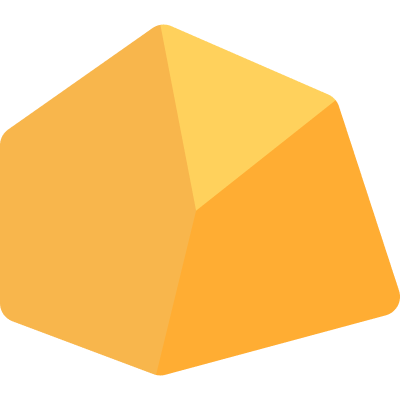
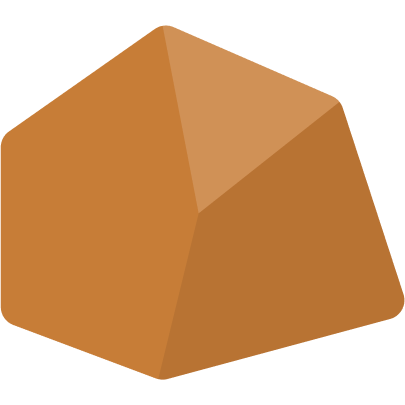
Adding auction buttong, changing images, and forcing info text in city view of buildings

diff --git a/imports/ui/components/city/city.js b/imports/ui/components/city/city.js
@@ -423,10 +423,12 @@ Template.cityMap.helpers({
     // console.log(Meteor.userId());
     bb =  Buildings.find({$and: [{"gameCode": FlowRouter.getParam("gameCode")}, {"ownerId": Meteor.userId()}, {"location": {$exists: false}} ]})
     // console.log(Buildings.find().fetch());
+    mapTiles = Template.instance().mapTiles
     bb = bb.fetch();
 
     for (b in bb) {
-      bb[b]["image"] = this.mapTiles[bb[b]["name"]];
+      // console.log(bb[b]);
+      bb[b]["image"] = mapTiles[bb[b]["name"]];
     }
     return bb;
   },
@@ -504,8 +506,9 @@ Template.cityMap.helpers({
             pcText += pc + ": " + pcs[pc] + " ";
           }
         }
-        boxContent["text"].push("Uses: " + JSON.stringify(pcText));
-        boxContent["text"].push("Produces: " + JSON.stringify(mapSelect["building"]["prodVal"]));
+        // boxContent["text"].push("Uses: " + JSON.stringify(pcText));
+        // boxContent["text"].push("Produces: " + JSON.stringify(mapSelect["building"]["prodVal"]));
+        boxContent["text"].push(JSON.stringify(mapSelect["building"]["infoText"]));
         if ("neighboringResource" in mapSelect["building"] && "neighborBonus" in mapSelect["building"]) {
           boxContent["text"].push(" Resource nearby, bonus production possible! ");
         }

diff --git a/imports/ui/components/admin/admin.js b/imports/ui/components/admin/admin.js
@@ -21,6 +21,7 @@ import { ConsumeResources } from '/imports/api/links/methods.js';
 import { SpawnFactories } from '/imports/api/links/methods.js';
 
 import { MakeMap } from '/imports/api/links/methods.js';
+import { BuildingToAuction } from '/imports/api/links/methods.js';
 import { RunBids2 } from '/imports/api/links/methods.js';
 import { RunBuildings } from '/imports/api/links/methods.js';
 import { ToggleBuilding } from '/imports/api/links/methods.js';
@@ -423,6 +424,16 @@ Template.adminGame.events({
     ResetAll.call({"gameCode": FlowRouter.getParam("gameCode")}, (err, res) => {
       if (err) {console.log(err);}
     });
+  },
+
+  'click .addAuction'(event, instance) {
+    console.log("adding building to auction");
+    BuildingToAuction.call({"gameCode": FlowRouter.getParam("gameCode")}, (err, res) => {
+      if (err) { console.log(err); }
+      else {
+        console.log("buildings run!");
+      }
+    })
   },
 
   'click .runBids'(event, instance) {

diff --git a/imports/api/links/methods.js b/imports/api/links/methods.js
@@ -1563,6 +1563,18 @@ export const JoinGame = new ValidatedMethod({
   }
 });
 
+export const BuildingToAuction = new ValidatedMethod({
+  name: 'bid.add',
+  validate ({}) {},
+  run({gameCode}) {
+    bidKinds = ["clay", "copper", "food", "lumber"];
+    randomBk = bidKinds[Math.floor(Math.random() * bidKinds.length)];
+    buildNames = ["claymine", "coppermine", "foodfarm", "foodfishing", "foodhunting", "lumbercamp"];
+    randomBuild = buildNames[Math.floor(Math.random() * buildNames.length)];
+    AddBuilding.call({"gameCode": gameCode, "locx": -1, "locy": 0, "bidKind": randomBk, "buildingName": randomBuild, "groupName": "auctions"});
+    // run({gameCode, locx, locy, bidKind, buildingName, groupName}) {
+  }
+});
 
 export const MakeBid2 = new ValidatedMethod({
   name: 'bid2.make',

diff --git a/imports/ui/components/admin/admin.html b/imports/ui/components/admin/admin.html
@@ -91,7 +91,9 @@
     <button type="button" class="resetTeamResources btn btn-default"> Reset Team Resources </button>
     <button type="button" class="makeMap btn btn-default"> Make Map </button>
   </div>
+  <!-- <p> </p> -->
   <div class="btn-group" role="group" aria-label="Basic example">
+    <button type="button" class="addAuction btn btn-default"> Add Auction Build </button>
     <button type="button" class="runBuildings btn btn-default"> Run Builds </button>
     <button type="button" class="removeBuildings btn btn-default"> Remove Builds </button>
     <button type="button" class="btn btn-primary seeScore">See scoreboard</button> 

diff --git a/imports/ui/components/city/city.html b/imports/ui/components/city/city.html
@@ -89,6 +89,7 @@
         <!--{{build.name}}-->
         <p>Produce</p>
         <p>Consume</p>
+        {{build.infoText}}
         {{#if buildingPlacable build}}
           <button class="btn btn-primary placeBuilding" id="{{build._id}}" style="display: block; margin-left: auto; margin-right: auto; margin-bottom: 4%;"> Place Building </button>
         {{/if}}

diff --git a/imports/ui/stylesheets/style.css b/imports/ui/stylesheets/style.css
@@ -251,6 +251,11 @@ body {
 	width: 100px;
 }
 
+.resStatBox{
+	height: 50px;
+	min-width: 100px;
+}
+
 .red-city-status{
 	position: absolute;
 	top:800px;
